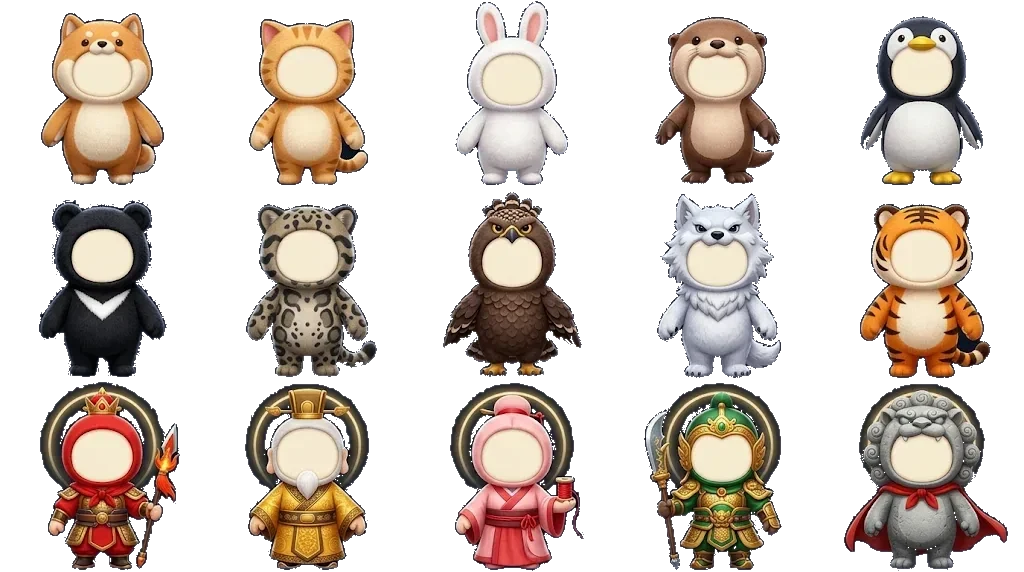
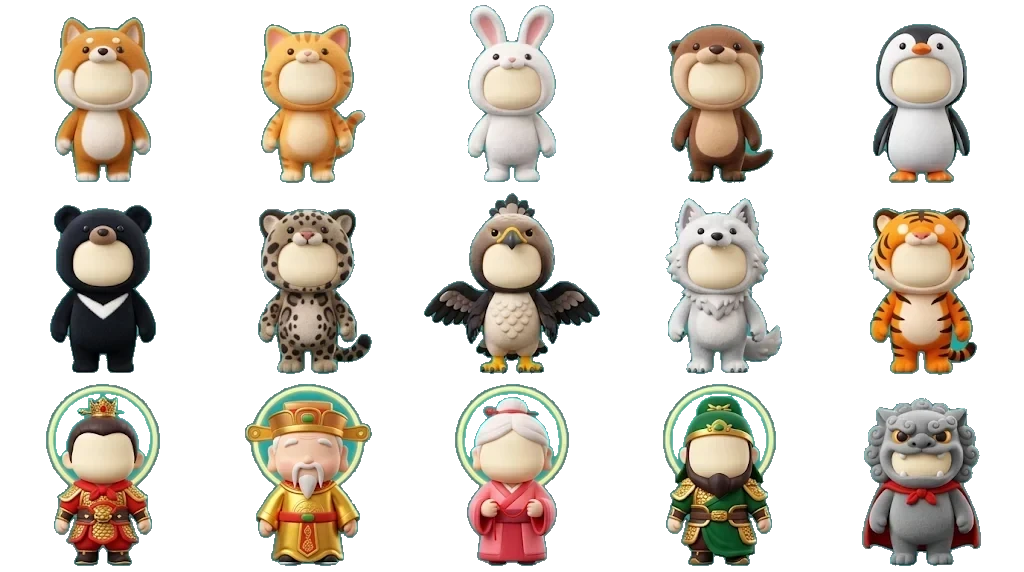
玩具風改版：木牌羊皮紙介面、黏土按鈕、大型 3D 村落廣場（可縮放）、玩具風物種立繪、面對面對戰
Claude-Session: https://claude.ai/code/session_0197R7RU68RQZWdCEn8v7Fmg

diff --git a/index.html b/index.html
@@ -220,6 +220,60 @@ h3{margin:0;font-size:12px;color:var(--muted);font-weight:500;letter-spacing:.1e
 #toast{position:fixed;left:50%;top:84px;transform:translateX(-50%) translateY(-20px);background:var(--paper);color:#1b1730;font-weight:700;padding:9px 16px;border-radius:20px;opacity:0;transition:.25s;pointer-events:none;max-width:86%;text-align:center;box-shadow:0 6px 20px #0009}
 #toast.on{opacity:1;transform:translateX(-50%)}
 @media (prefers-reduced-motion:reduce){*{transition:none!important}}
+/* ===== 玩具風外觀 ===== */
+:root{--ink:#1b2a5c;--wood1:#d6a865;--wood2:#a8743d;--wood3:#4a2f18;--parch:#f6e9c9}
+body{background:var(--ink)}
+#hud{background:none;padding:10px 12px}
+.logo{display:flex;align-items:center;gap:8px;position:relative;padding:6px 16px 6px 6px;border-radius:12px;border:3px solid var(--wood3);color:var(--wood3);font-size:24px;text-shadow:0 1px 0 #f7dcaa;
+ background:repeating-linear-gradient(3deg,#0000 0 10px,#7a4f2618 10px 12px),linear-gradient(#e2b676,#c08a4c);box-shadow:inset 0 2px 0 #ffffff55,0 4px 0 #2a180b,0 10px 18px #0008}
+.logo i{background:#f6e9c9;color:#c8321f;border:3px solid #c8321f;width:34px;height:34px;border-radius:6px;transform:rotate(-3deg);text-shadow:none;box-shadow:none;margin-right:0;font-size:24px}
+.logo small{position:absolute;left:6px;top:100%;margin-top:8px;white-space:nowrap;color:#fff;font-size:14px;font-weight:700;text-shadow:0 2px 4px #000,0 0 2px #000}
+#coin{background:repeating-linear-gradient(3deg,#0000 0 10px,#00000014 10px 12px),linear-gradient(#b98447,#8a5a2e);border:3px solid var(--wood3);border-radius:16px;color:#fff6df;font-size:18px;padding:4px 14px 4px 4px;box-shadow:inset 0 2px 0 #ffffff40,0 4px 0 #2a180b,0 10px 18px #0008}
+#coin .c{width:40px;height:40px;font-size:20px;box-shadow:0 0 0 3px #8a5a00,inset 0 -3px 0 #0003}
+#coin small{color:#f6d9a6;font-size:11px}
+#snd{width:46px;height:46px;border-radius:50%;font-size:22px;font-weight:900;color:var(--wood3);background:var(--wood);border:3px solid var(--wood3);box-shadow:0 4px 0 #2a180b}
+#hint{color:#fff;text-shadow:0 1px 3px #000;bottom:110px}
+#nav{background:none;gap:6px;padding:0 8px 10px}
+#nav button{background:linear-gradient(#fffaf0,var(--parch));border:2px solid #d9c08e;border-radius:12px 12px 8px 8px;color:#5a3a1f;font-weight:800;font-size:14px;padding:8px 0 6px;box-shadow:0 4px 0 #b8975f,0 8px 16px #0007}
+#nav svg{width:34px;height:34px;stroke-width:2.6;filter:drop-shadow(0 2px 0 #0002)}
+.ic1{stroke:#159b97;fill:#bdeee8}.ic2{stroke:#e2472f;fill:#ffd6cb}.ic4{stroke:#2f63c4;fill:#cfe0ff}.ic5{stroke:#d99712;fill:#ffe39a}
+#nav .big{padding-top:0;color:#5a3a1f}
+#nav .big span{margin-top:-30px;width:76px;height:76px;font-size:46px;box-shadow:0 0 0 3px var(--wood3),0 5px 0 #2a180b,0 10px 20px #000a}
+.tag{background:#f6e9c9;color:#4a2f18;border:2px solid #8a5a2e;border-radius:6px;font-weight:700;font-size:12px;padding:1px 8px;box-shadow:0 2px 0 #5a3a1f}
+.tag b{color:#b5452b}
+.bub{border:2px solid #4a2f18;font-weight:700;box-shadow:0 3px 0 #4a2f18}
+.btn{border-radius:14px;padding:9px 16px;font-weight:800;color:#fff;text-shadow:0 1px 0 #0004;background:linear-gradient(#ff7a5f,#e8503a 55%,#c93a26);box-shadow:inset 0 2px 0 #fff6,inset 0 -3px 0 #0003,0 3px 0 #9c2a19,0 5px 10px #0003}
+.btn.gd{background:linear-gradient(#ffd66b,#f2b632 55%,#d99712);color:#5a3a00;text-shadow:none;box-shadow:inset 0 2px 0 #fff8,inset 0 -3px 0 #0002,0 3px 0 #a86d00,0 5px 10px #0003}
+.btn.g2{background:linear-gradient(#fffaf0,#efdfbe);color:#5a3a1f;text-shadow:none;border:0;box-shadow:inset 0 2px 0 #fff,inset 0 -3px 0 #0001,0 3px 0 #c4a46c,0 5px 10px #0002}
+.btn:active{translate:0 2px}
+.bar{background:#00000026}
+#sheet{--paper:#4a2f18;--muted:#86684a;--panel:#f6e9c9;--panel2:#fffaf0;--line:#dcc394;color:var(--paper);border:4px solid var(--wood3);border-bottom:0}
+#sheet header{background:repeating-linear-gradient(3deg,#0000 0 10px,#00000012 10px 12px),linear-gradient(#d6a865,#a8743d);border-bottom:3px solid var(--wood3);border-radius:16px 16px 0 0}
+#sheet h2{color:#fff6df;text-shadow:0 2px 0 #4a2f18}
+#sheet .x{background:#fff6df;color:#4a2f18;box-shadow:0 2px 0 #4a2f18}
+#sheet .t1{color:#178a64}#sheet .t2{color:#2f63c4}#sheet .t3{color:#b67b00}
+#sheet .stat em{color:#c27a00}
+#sheet .tabs button.on{color:#fff6df}
+#sheet .log{background:#3a2616;color:#fff3d6}
+#sheet .hero input{color:var(--paper)}
+#battle{background:url(art/battle.webp) center/cover,#3d6b3a;padding:14px 8px 8px}
+#battle .field{flex:1;min-height:0;display:grid;grid-template-columns:1fr auto 1fr;align-items:center;gap:2px}
+#battle .side{display:flex;flex-direction:column;justify-content:center;gap:4px}
+#battle .side.a{align-items:flex-start}#battle .side.f{align-items:flex-end}
+#battle .side .unit:nth-child(2){margin-inline:18%}
+#battle .vs{font-size:40px;color:#fff;text-shadow:0 3px 0 #c8321f,0 0 12px #000}
+.unit{width:auto;max-width:100%;gap:0}
+.unit .plate{display:flex;flex-direction:column;align-items:center;gap:1px;background:#1b1209cc;border:2px solid #f6e9c9;border-radius:10px;padding:2px 8px 3px;min-width:104px;color:#fff;margin-top:-6px}
+.unit .plate small{color:#f6e2b8}.unit .plate .bar{width:100%}
+.bbox{background:#2b1b0f;border:6px solid #6b4423;border-radius:18px;box-shadow:inset 0 0 0 2px #a8743d,0 6px 0 #3a2414;color:#fff3d6}
+.bbox p{text-align:center;font-weight:700;font-size:17px}
+#bcmd button{text-align:center;border:0;border-radius:14px;font-weight:800;font-size:17px;color:#fff;text-shadow:0 1px 0 #0005;padding:10px 6px;background:linear-gradient(#fffaf0,#e7d3a8);color:#5a3a1f;box-shadow:inset 0 2px 0 #fff6,inset 0 -3px 0 #0003,0 3px 0 #8a6a3a}
+#bcmd button::before{content:none}
+#bcmd button small{padding-left:0;color:inherit;opacity:.8}
+#bcmd [data-v=atk]{background:linear-gradient(#ff7a5f,#e8503a);color:#fff;box-shadow:inset 0 2px 0 #fff6,inset 0 -3px 0 #0003,0 3px 0 #9c2a19}
+#bcmd [data-v=sk]{background:linear-gradient(#6fd17f,#3fae5a);color:#fff;box-shadow:inset 0 2px 0 #fff6,inset 0 -3px 0 #0003,0 3px 0 #237a3a}
+#bcmd [data-v=def]{background:linear-gradient(#6f9dff,#3f78d8);color:#fff;box-shadow:inset 0 2px 0 #fff6,inset 0 -3px 0 #0003,0 3px 0 #23509c}
+#bcmd [data-a=btgt],#bcmd [data-a=bexit]{background:linear-gradient(#ffd66b,#f2b632);color:#5a3a00}
 </style>
 </head>
 <body>
@@ -233,11 +287,11 @@ h3{margin:0;font-size:12px;color:var(--muted);font-weight:500;letter-spacing:.1e
 <div id="hint">拖曳旋轉場景 · 點夥伴互動</div>
 
 <nav id="nav">
-  <button data-a="list"><svg viewBox="0 0 24 24"><circle cx="12" cy="9" r="4"/><path d="M4 21c1-5 15-5 16 0"/></svg>夥伴</button>
-  <button data-a="shop"><svg viewBox="0 0 24 24"><path d="M4 9h16l-1 11H5z"/><path d="M8 9a4 4 0 0 1 8 0"/></svg>商店</button>
+  <button data-a="list"><svg class="ic1" viewBox="0 0 24 24"><circle cx="12" cy="9" r="4"/><path d="M4 21c1-5 15-5 16 0"/></svg>夥伴</button>
+  <button data-a="shop"><svg class="ic2" viewBox="0 0 24 24"><path d="M4 9h16l-1 11H5z"/><path d="M8 9a4 4 0 0 1 8 0"/></svg>商店</button>
   <button class="big" data-a="cap"><span>封</span>結印收服</button>
-  <button data-a="arena"><svg viewBox="0 0 24 24"><path d="M5 4l14 14M19 4L5 18M4 15l5 5M20 15l-5 5"/></svg>競技</button>
-  <button data-a="rank"><svg viewBox="0 0 24 24"><path d="M4 20V11h5v9M9.5 20V5h5v15M15 20v-7h5v7"/></svg>排行</button>
+  <button data-a="arena"><svg class="ic4" viewBox="0 0 24 24"><path d="M5 4l14 14M19 4L5 18M4 15l5 5M20 15l-5 5"/></svg>競技</button>
+  <button data-a="rank"><svg class="ic5" viewBox="0 0 24 24"><path d="M4 20V11h5v9M9.5 20V5h5v15M15 20v-7h5v7"/></svg>排行</button>
 </nav>
 
 <section id="sheet" aria-live="polite"><header><h2 id="stitle"></h2><button class="x" data-a="close" aria-label="關閉">×</button></header><div id="sbody"></div></section>
@@ -351,7 +405,7 @@ function gain(c,n){c.exp+=n;let up=0;const s=sp(c.sp);
  if(c.lv>=100)c.exp=0;return up}
 
 /* ====== Q 版圖示（排行榜用，不帶人臉） ====== */
-const HOLE=[[0.498,0.388,0.137,0.105],[0.503,0.375,0.137,0.123],[0.5,0.417,0.139,0.123],[0.503,0.399,0.137,0.1],[0.5,0.375,0.139,0.118],[0.498,0.341,0.142,0.131],[0.503,0.341,0.142,0.126],[0.498,0.378,0.137,0.121],[0.503,0.385,0.137,0.108],[0.5,0.341,0.139,0.126],[0.493,0.391,0.137,0.123],[0.503,0.38,0.142,0.123],[0.498,0.388,0.137,0.126],[0.525,0.404,0.139,0.11],[0.498,0.406,0.142,0.113]];
+const HOLE=[[0.479,0.412,0.137,0.112],[0.483,0.409,0.137,0.115],[0.483,0.441,0.143,0.115],[0.476,0.414,0.134,0.102],[0.476,0.404,0.14,0.115],[0.481,0.365,0.146,0.112],[0.479,0.367,0.137,0.115],[0.476,0.378,0.14,0.115],[0.476,0.378,0.14,0.115],[0.476,0.372,0.14,0.115],[0.469,0.375,0.167,0.124],[0.48,0.375,0.146,0.12],[0.464,0.367,0.149,0.128],[0.479,0.385,0.137,0.112],[0.48,0.37,0.159,0.134]];
 const SHEET=new Image();SHEET.onload=()=>build3D();SHEET.src='art/species.webp';
 const EQS=new Image();EQS.onload=()=>build3D();EQS.src='art/equip.webp';
 function icon(sid,face,size,eq){const i=SP.findIndex(s=>s.id===sid),h=HOLE[i];const pd=eq?['a','w','c'].map(k=>{const j=EQO.indexOf(eq[k]);return j<0?'':`<i class="pd ${k}" style="background-position:${j%6*20}% ${Math.floor(j/6)*20}%"></i>`}).join(''):'';
@@ -368,56 +422,81 @@ let DEF;function defFace(){if(DEF)return DEF;const c=document.createElement('can
 const faceOf=c=>c.face||defFace();
 
 /* ====== 3D 主場景 ====== */
-let R,scene,cam,ang=0,objs=[],floorTex;const HAS3D=typeof THREE!=='undefined';
+let R,scene,cam,ang=0,camD=14,objs=[],floorTex;const HAS3D=typeof THREE!=='undefined';
 function init3D(){if(!HAS3D)return;
  R=new THREE.WebGLRenderer({canvas:$('#gl'),antialias:true});R.setPixelRatio(Math.min(devicePixelRatio,2));
- scene=new THREE.Scene();scene.background=new THREE.Color(0x0c0f1f);scene.fog=new THREE.Fog(0x0c0f1f,14,38);
- cam=new THREE.PerspectiveCamera(46,1,.1,80);
- scene.add(new THREE.HemisphereLight(0xbfd0ff,0x2a1a30,.95));
- const d=new THREE.DirectionalLight(0xfff0d8,.9);d.position.set(4,9,6);scene.add(d);
- // 屋頂平台：木棧板＋結印陣
+ scene=new THREE.Scene();scene.background=new THREE.Color(0x1b2a5c);scene.fog=new THREE.Fog(0x1b2a5c,34,70);
+ cam=new THREE.PerspectiveCamera(42,1,.1,160);
+ scene.add(new THREE.HemisphereLight(0xd6e4ff,0x5a4630,1.1));
+ const d=new THREE.DirectionalLight(0xffe2b8,.85);d.position.set(6,14,8);scene.add(d);
+ const M=(c,o)=>new THREE.MeshStandardMaterial(Object.assign({color:c,roughness:.85,flatShading:true},o||{}));
+ const add=(geo,mat,x,y,z,par)=>{const m=new THREE.Mesh(geo,mat);m.position.set(x,y,z);(par||scene).add(m);return m};
+ // 毛氈草地＋泥土廣場
+ add(new THREE.CylinderGeometry(28,29,1,72),M(0x5c9a45),0,-.5,0);
+ add(new THREE.CylinderGeometry(10.5,10.8,.12,72),M(0xcfa66c),0,.03,0);
+ // 中央石造封印陣
  const fc=document.createElement('canvas');fc.width=fc.height=512;const g=fc.getContext('2d');
- g.fillStyle='#2b2f52';g.fillRect(0,0,512,512);
- for(let i=0;i<16;i++){g.fillStyle=i%2?'#343a63':'#2f345b';g.fillRect(0,i*32,512,30)}
- g.strokeStyle='#8a5a2e';g.lineWidth=6;g.beginPath();g.arc(256,256,170,0,7);g.stroke();
- g.lineWidth=2;g.strokeStyle='#ecbc52';g.beginPath();g.arc(256,256,150,0,7);g.stroke();
- g.beginPath();for(let i=0;i<8;i++){const a=i*Math.PI/4;g.moveTo(256+Math.cos(a)*150,256+Math.sin(a)*150);g.lineTo(256+Math.cos(a+Math.PI*.75)*150,256+Math.sin(a+Math.PI*.75)*150)}g.stroke();
- g.fillStyle='#f6e7c5';g.font='120px "Ma Shan Zheng",serif';g.textAlign='center';g.textBaseline='middle';g.fillText('印',256,262);
- const drawSealChar=()=>{g.fillStyle='#2f345b';g.beginPath();g.arc(256,256,70,0,7);g.fill();g.fillStyle='#f6e7c5';g.fillText('印',256,262);floorTex.needsUpdate=true};if(document.fonts&&document.fonts.load)document.fonts.load('120px "Ma Shan Zheng"').then(drawSealChar).catch(()=>{});
- const fl=new THREE.Mesh(new THREE.CylinderGeometry(6.2,6.2,.5,48),[new THREE.MeshStandardMaterial({color:0x1b1e38}),new THREE.MeshStandardMaterial({map:(()=>{const x=floorTex=new THREE.CanvasTexture(fc);x.wrapS=THREE.RepeatWrapping;x.repeat.x=-1;return x})(),roughness:.85}),new THREE.MeshStandardMaterial({color:0x1b1e38})]);
- fl.position.y=-.25;scene.add(fl);
- const rail=new THREE.Mesh(new THREE.TorusGeometry(6.2,.07,8,64),new THREE.MeshStandardMaterial({color:0xecbc52,metalness:.6,roughness:.3}));rail.rotation.x=Math.PI/2;rail.position.y=.5;scene.add(rail);
- // 紅燈籠
- for(let i=0;i<8;i++){const a=i*Math.PI/4+.39,x=Math.cos(a)*6.2,z=Math.sin(a)*6.2;
-  const p=new THREE.Mesh(new THREE.CylinderGeometry(.04,.04,1.9,6),new THREE.MeshStandardMaterial({color:0x3a4069}));p.position.set(x,.95,z);scene.add(p);
-  const l=new THREE.Mesh(new THREE.SphereGeometry(.24,16,12),new THREE.MeshBasicMaterial({color:0xff5a3c}));l.scale.y=1.2;l.position.set(x,2,z);scene.add(l);
-  if(i%4===0){const pl=new THREE.PointLight(0xff6a40,.8,9);pl.position.set(x*.8,2,z*.8);scene.add(pl)}}
- // 城市天際線
- const wc=document.createElement('canvas');wc.width=64;wc.height=128;const w=wc.getContext('2d');w.fillStyle='#141831';w.fillRect(0,0,64,128);
- for(let y=4;y<124;y+=8)for(let x=4;x<60;x+=8)if(Math.random()<.42){w.fillStyle=Math.random()<.7?'#ffd98a':'#9fd0ff';w.fillRect(x,y,4,4)}
- const wt=new THREE.CanvasTexture(wc);wt.magFilter=THREE.NearestFilter;
- const bm=new THREE.MeshBasicMaterial({map:wt}),city=new THREE.Group();scene.add(city);
- for(let i=0;i<34;i++){const a=i/34*Math.PI*2,r=rnd(15,24),h=rnd(4,13);
-  const b=new THREE.Mesh(new THREE.BoxGeometry(rnd(2,3.6),h,rnd(2,3.6)),bm);b.position.set(Math.cos(a)*r,h/2-6,Math.sin(a)*r);city.add(b)}
- for(let i=0;i<8;i++){const t=new THREE.Mesh(new THREE.BoxGeometry(2.6-i*.12,2.2,2.6-i*.12),bm);t.position.set(-9,-5+i*2.2,-20);city.add(t)}
- const sg=new THREE.BufferGeometry(),sv=[];for(let i=0;i<260;i++){const a=rnd(0,6.28),r=rnd(28,36);sv.push(Math.cos(a)*r,rnd(4,26),Math.sin(a)*r)}
- sg.setAttribute('position',new THREE.Float32BufferAttribute(sv,3));city.add(new THREE.Points(sg,new THREE.PointsMaterial({color:0xffffff,size:.14,fog:false})));
- new THREE.TextureLoader().load('art/sky.webp',tx=>{tx.wrapS=THREE.MirroredRepeatWrapping;tx.repeat.x=4;const m=new THREE.Mesh(new THREE.CylinderGeometry(30,30,28,64,1,true),new THREE.MeshBasicMaterial({map:tx,side:THREE.BackSide,fog:false}));m.position.y=-1.3;scene.add(m);scene.remove(city)});
+ g.fillStyle='#a29f96';g.fillRect(0,0,512,512);
+ for(let i=0;i<500;i++){g.fillStyle=Math.random()<.5?'#00000010':'#ffffff12';g.fillRect(Math.random()*512,Math.random()*512,3+Math.random()*8,3+Math.random()*8)}
+ g.strokeStyle='#6e6b64';g.lineWidth=10;g.beginPath();g.arc(256,256,236,0,7);g.stroke();
+ g.lineWidth=5;g.beginPath();g.arc(256,256,186,0,7);g.stroke();g.beginPath();g.arc(256,256,150,0,7);g.stroke();
+ g.fillStyle='#6e6b64';for(let i=0;i<36;i++){g.save();g.translate(256,256);g.rotate(i/36*Math.PI*2);g.fillRect(-5,-226,10,26);g.fillRect(-11,-212,22,6);g.restore()}
+ g.lineWidth=4;g.beginPath();for(let i=0;i<5;i++){const a=-Math.PI/2+i*Math.PI*4/5;g[i?'lineTo':'moveTo'](256+Math.cos(a)*150,256+Math.sin(a)*150)}g.closePath();g.stroke();
+ g.font='130px "Ma Shan Zheng",serif';g.textAlign='center';g.textBaseline='middle';
+ const drawSealChar=()=>{g.fillStyle='#a29f96';g.beginPath();g.arc(256,256,74,0,7);g.fill();g.fillStyle='#5e5b55';g.fillText('封',256,262);if(floorTex)floorTex.needsUpdate=true};drawSealChar();
+ if(document.fonts&&document.fonts.load)document.fonts.load('130px "Ma Shan Zheng"').then(drawSealChar).catch(()=>{});
+ const fl=new THREE.Mesh(new THREE.CylinderGeometry(4.2,4.4,.36,64),[M(0x86847d),new THREE.MeshStandardMaterial({map:(()=>{const x=floorTex=new THREE.CanvasTexture(fc);x.wrapS=THREE.RepeatWrapping;x.repeat.x=-1;return x})(),roughness:.95}),M(0x86847d)]);
+ fl.position.y=.18;scene.add(fl);
+ // 燈籠柱
+ for(let i=0;i<12;i++){const a=i/12*Math.PI*2+.13,x=Math.cos(a)*11.2,z=Math.sin(a)*11.2;
+  add(new THREE.CylinderGeometry(.1,.12,2.4,8),M(0x7a5230),x,1.2,z);add(new THREE.BoxGeometry(.9,.12,.12),M(0x5a3a1f),x,2.35,z);
+  const l=add(new THREE.SphereGeometry(.34,16,12),new THREE.MeshBasicMaterial({color:0xffd27a}),x,2.0,z);l.scale.y=1.2;
+  if(i%3===0){const pl=new THREE.PointLight(0xffb860,.75,13);pl.position.set(x*.9,2.4,z*.9);scene.add(pl)}}
+ // 小木屋
+ const roofC=[0x3d5fa8,0x2f4b8c,0x4a6fbe],wallC=[0xf0dfb8,0xd9b27a,0xe8cfa0];
+ for(let i=0;i<10;i++){const a=i/10*Math.PI*2+.31,rr=16+Math.random()*3,hs=new THREE.Group();
+  add(new THREE.BoxGeometry(3.2,2.3,2.8),M(wallC[i%3]),0,1.15,0,hs);
+  const rf=add(new THREE.ConeGeometry(2.7,1.7,4),M(roofC[i%3]),0,3.15,0,hs);rf.rotation.y=Math.PI/4;rf.scale.set(1.25,1,1.1);
+  add(new THREE.BoxGeometry(.8,1.3,.08),M(0x5a3a1f),-.6,.65,1.42,hs);
+  add(new THREE.BoxGeometry(.8,.6,.08),new THREE.MeshBasicMaterial({color:0xffd98a}),.75,1.35,1.42,hs);
+  add(new THREE.SphereGeometry(.22,12,10),new THREE.MeshBasicMaterial({color:0xff8a5a}),1.45,1.9,1.5,hs);
+  hs.position.set(Math.cos(a)*rr,0,Math.sin(a)*rr);hs.lookAt(0,0,0);scene.add(hs)}
+ // 樹
+ for(let i=0;i<46;i++){const a=Math.random()*Math.PI*2,rr=13+Math.random()*13,x=Math.cos(a)*rr,z=Math.sin(a)*rr,s=.8+Math.random()*.7,t=new THREE.Group();
+  add(new THREE.CylinderGeometry(.16,.22,1,7),M(0x7a5230),0,.5,0,t);
+  if(Math.random()<.6){[0,1,2].forEach(k=>add(new THREE.ConeGeometry(1.25-k*.3,1.4,8),M(k%2?0x3f8f52:0x2f7a4a),0,1.4+k*.75,0,t))}
+  else add(new THREE.SphereGeometry(1.1,10,8),M([0x6fb04f,0x86c25a,0x58a046][i%3]),0,1.9,0,t);
+  t.position.set(x,0,z);t.scale.setScalar(s);scene.add(t)}
+ // 鳥居
+ const tr=new THREE.Group(),red=M(0xd8402c),blk=M(0x2b1d14);
+ [-2.6,2.6].forEach(x=>add(new THREE.CylinderGeometry(.3,.34,4.8,12),red,x,2.4,0,tr));
+ add(new THREE.BoxGeometry(6.4,.38,.5),red,0,4.0,0,tr);add(new THREE.BoxGeometry(7.6,.42,.7),blk,0,4.95,0,tr);add(new THREE.BoxGeometry(7.0,.32,.6),red,0,4.65,0,tr);
+ tr.position.set(0,0,-12.5);scene.add(tr);
+ [-4.4,4.4].forEach(x=>{add(new THREE.BoxGeometry(.8,.5,.8),M(0x8f8c84),x,.25,-11.6);add(new THREE.CylinderGeometry(.18,.22,1,8),M(0x8f8c84),x,1,-11.6);add(new THREE.BoxGeometry(.8,.6,.8),new THREE.MeshBasicMaterial({color:0xffd27a}),x,1.75,-11.6);add(new THREE.ConeGeometry(.7,.5,4),M(0x77746c),x,2.3,-11.6).rotation.y=Math.PI/4});
+ // 星空與遠景
+ const sg=new THREE.BufferGeometry(),sv=[];for(let i=0;i<320;i++){const a=rnd(0,6.28),rr=rnd(40,46);sv.push(Math.cos(a)*rr,rnd(10,34),Math.sin(a)*rr)}
+ sg.setAttribute('position',new THREE.Float32BufferAttribute(sv,3));scene.add(new THREE.Points(sg,new THREE.PointsMaterial({color:0xfff3c4,size:.35,fog:false})));
+ new THREE.TextureLoader().load('art/home.webp',tx=>{tx.wrapS=THREE.MirroredRepeatWrapping;tx.repeat.x=3;const m=new THREE.Mesh(new THREE.CylinderGeometry(50,50,42,72,1,true),new THREE.MeshBasicMaterial({map:tx,side:THREE.BackSide,fog:false}));m.position.y=12.6;scene.add(m)});
  resize();addEventListener('resize',resize);
  // 拖曳旋轉＋點選
- const cv=$('#gl');let dn=null;
- cv.addEventListener('pointerdown',e=>{dn={x:e.clientX,y:e.clientY,a:ang,m:0}});
- cv.addEventListener('pointermove',e=>{if(!dn)return;const dx=e.clientX-dn.x;dn.m=Math.max(dn.m,Math.abs(dx)+Math.abs(e.clientY-dn.y));ang=dn.a-dx*.008});
- cv.addEventListener('pointerup',e=>{if(dn&&dn.m<10){const rc=new THREE.Raycaster();rc.setFromCamera(new THREE.Vector2(e.clientX/innerWidth*2-1,-(e.clientY/innerHeight)*2+1),cam);
+ const cv=$('#gl'),PT=new Map();let pin=0,cam0=0;
+ cv.addEventListener('wheel',e=>{e.preventDefault();camD=Math.max(7,Math.min(26,camD*(1+e.deltaY*.001)))},{passive:false});
+ cv.addEventListener('pointerdown',e=>{PT.set(e.pointerId,{x:e.clientX,y:e.clientY});if(PT.size===2){const [p,q]=[...PT.values()];pin=Math.hypot(p.x-q.x,p.y-q.y);cam0=camD;dn=null}else dn={x:e.clientX,y:e.clientY,a:ang,m:0}});
+ cv.addEventListener('pointermove',e=>{if(PT.has(e.pointerId))PT.set(e.pointerId,{x:e.clientX,y:e.clientY});
+  if(PT.size===2&&pin){const [p,q]=[...PT.values()];camD=Math.max(7,Math.min(26,cam0*pin/Math.max(1,Math.hypot(p.x-q.x,p.y-q.y))));return}
+  if(!dn)return;const dx=e.clientX-dn.x;dn.m=Math.max(dn.m,Math.abs(dx)+Math.abs(e.clientY-dn.y));ang=dn.a-dx*.008});
+ const up=e=>{PT.delete(e.pointerId);if(PT.size<2)pin=0;};
+ cv.addEventListener('pointercancel',e=>{up(e);dn=null});
+ cv.addEventListener('pointerup',e=>{up(e);if(dn&&dn.m<10){const rc=new THREE.Raycaster();rc.setFromCamera(new THREE.Vector2(e.clientX/innerWidth*2-1,-(e.clientY/innerHeight)*2+1),cam);
    const h=rc.intersectObjects(objs.map(o=>o.g),true)[0];if(h){let o=h.object;while(o&&!o.userData.cid)o=o.parent;if(o){const ob=objs.find(x=>x.c.id===o.userData.cid);if(ob)speak(ob,'fun');A.cr(o.userData.cid)}}}dn=null});
  build3D();requestAnimationFrame(loop);}
 function resize(){R.setSize(innerWidth,innerHeight,false);cam.aspect=innerWidth/innerHeight;cam.updateProjectionMatrix()}
 function mesh(geo,col,o){const m=new THREE.Mesh(geo,new THREE.MeshStandardMaterial(Object.assign({color:col,roughness:.7},o||{})));return m}
 function build3D(){if(!HAS3D||!scene)return;const old={};objs.forEach(o=>{old[o.c.id]=o;scene.remove(o.g);o.b.remove();o.tg.remove()});objs=[];
  S.cr.forEach(c=>{const s=sp(c.sp),g=new THREE.Group();g.userData.cid=c.id;const ART=SHEET.complete&&SHEET.naturalWidth;let spr=null;
-  if(ART){const H=[0,1.7,1.95,2.3][s.t];spr=new THREE.Sprite(new THREE.SpriteMaterial({map:spriteTex(c),transparent:true,alphaTest:.03}));spr.scale.set(H*1.074,H,1);spr.center.set(.5,.03);g.add(spr);g.userData.h=H;
+  if(ART){const H=[0,2.3,2.6,3.0][s.t];spr=new THREE.Sprite(new THREE.SpriteMaterial({map:spriteTex(c),transparent:true,alphaTest:.03}));spr.scale.set(H*1.074,H,1);spr.center.set(.5,.03);g.add(spr);g.userData.h=H;
    if(c.rb){const st=new THREE.Mesh(new THREE.OctahedronGeometry(.12),new THREE.MeshBasicMaterial({color:0x45d3a8}));st.position.y=H+.25;g.add(st)}
-   const sh=new THREE.Mesh(new THREE.CircleGeometry(.55,20),new THREE.MeshBasicMaterial({color:0,transparent:true,opacity:.35}));sh.rotation.x=-Math.PI/2;sh.position.y=.012;g.add(sh)}else{
+   const sh=new THREE.Mesh(new THREE.CircleGeometry(.55,20),new THREE.MeshBasicMaterial({color:0,transparent:true,opacity:.35}));sh.rotation.x=-Math.PI/2;sh.position.y=.05;g.add(sh)}else{
   const body=mesh(new THREE.SphereGeometry(.42,24,18),s.c);body.scale.set(1,1.08,.9);body.position.y=.5;g.add(body);
   const belly=mesh(new THREE.SphereGeometry(.3,20,14),s.c2);belly.position.set(0,.46,.2);g.add(belly);
   const head=mesh(new THREE.SphereGeometry(.5,28,20),s.c);head.position.y=1.15;g.add(head);
@@ -439,7 +518,7 @@ function build3D(){if(!HAS3D||!scene)return;const old={};objs.forEach(o=>{old[o.
   if(c.rb){const st=new THREE.Mesh(new THREE.OctahedronGeometry(.12),new THREE.MeshBasicMaterial({color:0x45d3a8}));st.position.y=2.25;g.add(st)}
   const sh=new THREE.Mesh(new THREE.CircleGeometry(.5,20),new THREE.MeshBasicMaterial({color:0,transparent:true,opacity:.35}));sh.rotation.x=-Math.PI/2;sh.position.y=.012;g.add(sh);
   g.scale.setScalar([0,.85,1,1.15][s.t]);}
-  const o=old[c.id],a=rnd(0,6.28),r=rnd(0,4.5);g.position.set(o?o.g.position.x:Math.cos(a)*r,0,o?o.g.position.z:Math.sin(a)*r);
+  const o=old[c.id],a=rnd(0,6.28),r=rnd(4.6,9.5);g.position.set(o?o.g.position.x:Math.cos(a)*r,0,o?o.g.position.z:Math.sin(a)*r);
   scene.add(g);
   const b=document.createElement('div');b.className='bub';const tg=document.createElement('div');tg.className='tag';$('#bubbles').append(tg,b);
   objs.push({c,g,b,tg,spr,tx:g.position.x,tz:g.position.z,wait:rnd(0,2),talk:rnd(1,6),say:0});});
@@ -455,13 +534,13 @@ const SK={shiba:['柴犬連咬',2],cat:['貓拳連打',2],rabbit:['月兔連蹴'
 const SKD=['單體重擊','攻擊敵方全體','連打兩下','回復自己體力','一半機率三倍傷害'];
 let B=null,pickIds=[];
 function bDraw(){const cu=B.phase==='cmd'?B.a[B.i]:null;
- const u=(x,i)=>`<button class="unit${x.hp<=0?' dead':''}${x===cu?' cur':''}" id="u_${x.side}${i}" data-a="btgt" data-v="${x.side}${i}">${x.c?icon(x.sp,faceOf(x.c),84,x.c.eq):icon(x.sp,null,84)}<b>${esc(x.name)}</b><small>Lv ${x.lv} · 氣 ${x.qi}${x.def?' · 防禦':''}</small><span class="bar"><i style="width:${Math.max(0,x.hp/x.mx*100)}%;background:${x.side==='f'?'var(--seal)':'var(--jade)'}"></i></span><small>${Math.max(0,Math.round(x.hp))}/${Math.round(x.mx)}</small></button>`;
+ const u=(x,i)=>`<button class="unit${x.hp<=0?' dead':''}${x===cu?' cur':''}" id="u_${x.side}${i}" data-a="btgt" data-v="${x.side}${i}">${x.c?icon(x.sp,faceOf(x.c),92,x.c.eq):icon(x.sp,null,92)}<span class="plate"><b>${esc(x.name)}</b><small>Lv ${x.lv} · 氣 ${x.qi}${x.def?' · 防禦':''}</small><span class="bar"><i style="width:${Math.max(0,x.hp/x.mx*100)}%;background:${x.side==='f'?'#f0603f':'#5fd36a'}"></i></span><small>${Math.max(0,Math.round(x.hp))}/${Math.round(x.mx)}</small></span></button>`;
  let cmd='';
  if(B.phase==='cmd'){if(B.pend)cmd=B.f.map((x,i)=>x.hp>0?`<button data-a="btgt" data-v="f${i}">${esc(x.name)}</button>`:'').join('')+'<button data-a="bback">返回</button>';
   else{const s=SK[cu.sp];cmd=`<button data-a="bact" data-v="atk">攻擊<small>普通攻擊</small></button><button data-a="bact" data-v="sk" ${cu.qi<2?'disabled':''}>${s[0]}<small>${SKD[s[1]]} · 氣 2</small></button><button data-a="bact" data-v="def">防禦<small>傷害減半，氣 +1</small></button><button data-a="bact" data-v="run">逃跑<small>離開戰鬥</small></button>`}}
  else if(B.phase==='end')cmd='<button data-a="bexit">離開</button>';
  const msg=B.phase==='cmd'?(B.pend?`${esc(cu.name)} 要打誰？`:`第 ${B.round} 回合　${esc(cu.name)} 要做什麼？`):B.msg;
- $('#battle').innerHTML=`<div class="foes">${B.f.map(u).join('')}</div><div class="allies">${B.a.map(u).join('')}</div><div class="bbox"><p id="bmsg">${msg}</p><div id="bcmd">${cmd}</div></div>`}
+ $('#battle').innerHTML=`<div class="field"><div class="side a">${B.a.map(u).join('')}</div><div class="vs cal">VS</div><div class="side f">${B.f.map(u).join('')}</div></div><div class="bbox"><p id="bmsg">${msg}</p><div id="bcmd">${cmd}</div></div>`}
 function bNext(){let i=B.i+1;while(i<B.a.length&&B.a[i].hp<=0)i++;if(i<B.a.length){B.i=i;return bDraw()}
  B.f.forEach(e=>{if(e.hp<=0)return;const ty=SK[e.sp][1],r=Math.random();const k=e.qi>=2&&r<.6?'sk':r>.92?'def':'atk';B.acts.push({u:e,k,t:pick(B.a.filter(x=>x.hp>0))})});
  B.acts.forEach(a=>{if(a.k==='def'){a.u.def=true;a.u.qi=Math.min(5,a.u.qi+1)}});
@@ -499,12 +578,12 @@ function comic(c,good,after){const el=$('#comic'),k=good?Math.floor(Math.random(
 let last=0;const V=HAS3D?new THREE.Vector3():null;
 function loop(t){requestAnimationFrame(loop);const dt=Math.min(.05,(t-last)/1000);last=t;
  if(!dn3d())ang+=dt*.03;
- cam.position.set(Math.sin(ang)*9.5,5.4,Math.cos(ang)*9.5);cam.lookAt(0,1.5,0);
+ cam.position.set(Math.sin(ang)*camD,camD*.5+.8,Math.cos(ang)*camD);cam.lookAt(0,1.3,0);
  const quiet=document.querySelector('#cap.on,#phone.on,#cut.on,#battle.on');
  objs.forEach(o=>{const g=o.g,dx=o.tx-g.position.x,dz=o.tz-g.position.z,d=Math.hypot(dx,dz);
-  if(o.act)act(o,dt);else if(d>.08){const v=.7*dt;g.position.x+=dx/d*v;g.position.z+=dz/d*v;g.position.y=Math.abs(Math.sin(t*.009+o.c.id))*.07;if(o.spr)o.spr.material.rotation=Math.sin(t*.009+o.c.id)*.06;
+  if(o.act)act(o,dt);else if(d>.08){const v=1.1*dt;g.position.x+=dx/d*v;g.position.z+=dz/d*v;g.position.y=Math.abs(Math.sin(t*.009+o.c.id))*.07;if(o.spr)o.spr.material.rotation=Math.sin(t*.009+o.c.id)*.06;
    let ta=Math.atan2(dx,dz),da=ta-g.rotation.y;da=Math.atan2(Math.sin(da),Math.cos(da));g.rotation.y+=da*Math.min(1,dt*6)}
-  else{g.position.y=0;if(o.spr)o.spr.material.rotation=0;o.wait-=dt;if(o.wait<0){const a=rnd(0,6.28),r=rnd(0,5);o.tx=Math.cos(a)*r;o.tz=Math.sin(a)*r;o.wait=rnd(1,4)}}
+  else{g.position.y=0;if(o.spr)o.spr.material.rotation=0;o.wait-=dt;if(o.wait<0){const a=rnd(0,6.28),r=rnd(4.6,9.8);o.tx=Math.cos(a)*r;o.tz=Math.sin(a)*r;o.wait=rnd(1,4)}}
   o.talk-=dt;if(o.talk<0){o.talk=rnd(6,14);o.say=3.2;const m=o.c.mood;
    o.b.textContent=pick(m<35?TALK.bad:m>72?(Math.random()<.6?TALK.fl:TALK.fun):(Math.random()<.5?TALK.fun:pick([TALK.fl,TALK.bad])))}
   o.say-=dt;

diff --git a/sw.js b/sw.js
@@ -1,4 +1,4 @@
-const C='seal-v8',F=['./','index.html','manifest.json','icon.svg','art/species.webp','art/sky.webp','art/equip.webp','art/cut.webp','art/comic.webp','art/hands.webp'];
+const C='seal-v9',F=['./','index.html','manifest.json','icon.svg','art/species.webp','art/sky.webp','art/equip.webp','art/cut.webp','art/comic.webp','art/hands.webp','art/home.webp','art/battle.webp'];
 self.addEventListener('install',e=>{e.waitUntil(caches.open(C).then(c=>c.addAll(F)));self.skipWaiting()});
 self.addEventListener('activate',e=>{e.waitUntil(caches.keys().then(k=>Promise.all(k.filter(x=>x!==C).map(x=>caches.delete(x)))));self.clients.claim()});
 self.addEventListener('fetch',e=>{if(e.request.method!=='GET')return;e.respondWith(fetch(e.request).then(r=>{const cp=r.clone();caches.open(C).then(c=>c.put(e.request,cp)).catch(()=>{});return r}).catch(()=>caches.match(e.request)))});
